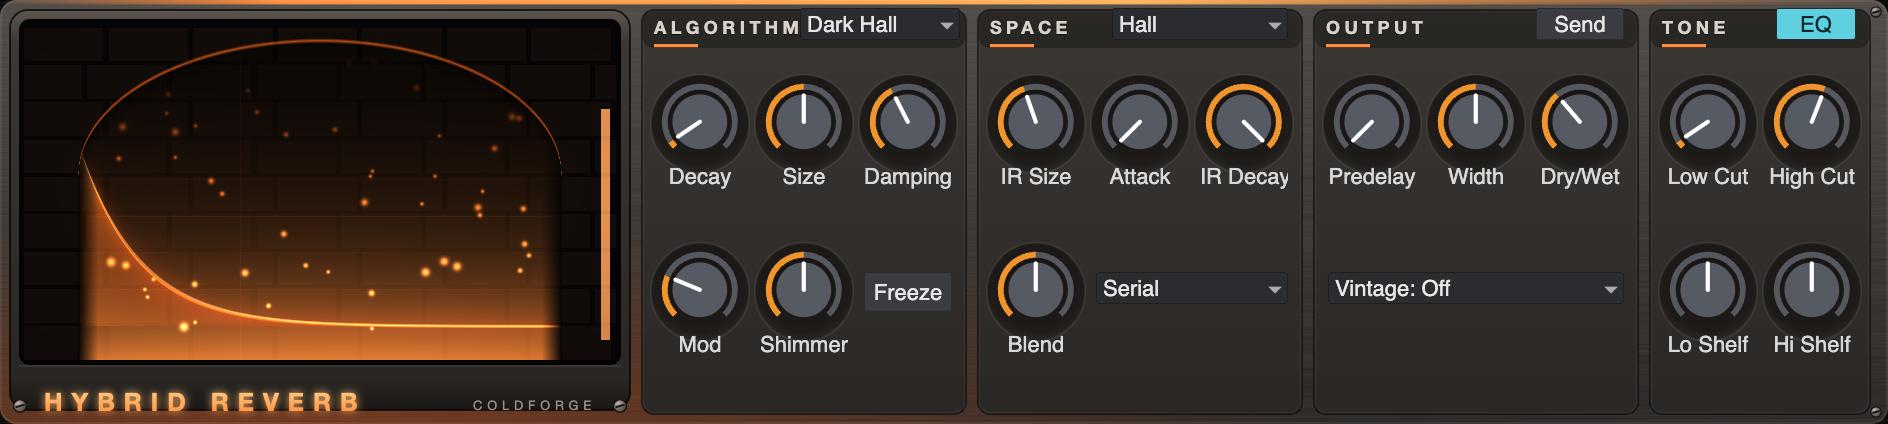
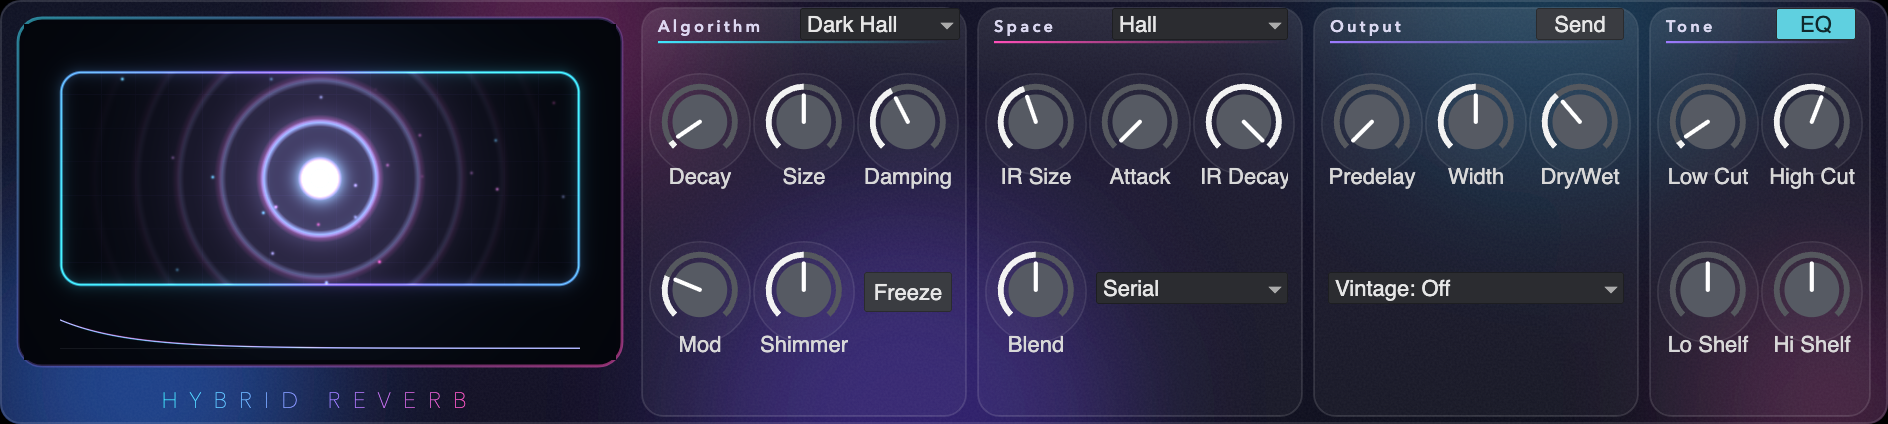
Hybrid Reverb: preview picture and README for the new design

diff --git a/devices/hybrid-reverb/README.md b/devices/hybrid-reverb/README.md
@@ -18,7 +18,7 @@ Status: early. It loads in Bitwig Studio 6.1.7 (macOS); the Space engine, routin
 | Tone | **EQ** on/off, **Low Cut**, **High Cut** (12 dB/oct), **Low Shelf** (200 Hz) and **High Shelf** (5 kHz) ±15 dB |
 | Output | **Predelay** up to 250 ms, **Width**, **Vintage** (Subtle to Extreme: rate, bit depth and bandwidth), **Dry/Wet**, **Send** (100 % wet, for a return track) |
 
-**The display** is a decay graph in a kiln mouth: time across, 60 dB up, with a grid every second and 12 dB. A filled line of fire shows the algorithm's decay and a cream line over an amber haze the space's, each as bright as its share of the blend; the arch widens with Size, and a bar at the right shows the wet level. Embers rise with the level and sway with Mod, Damping turns the glow from white-hot to deep red, Freeze turns it ice blue, and the Shimmer character adds sparks.
+**The display** shows sound spreading in a room: rings travel out from the source in the middle, cyan for the algorithm and magenta for the space, each fading over its own decay and as bright as its share of the blend. The room's walls follow Size and light up with the wet level; dust drifts with Mod, Freeze stops the rings and turns them to ice, and the Shimmer character adds stars. A thin graph along the bottom shows both decays.
 
 ## How the engines work
 
@@ -39,7 +39,7 @@ Built for Bitwig Studio 6.1.7. The DSP is stored as Nitro source, which Bitwig c
 |---|---|
 | `hybrid_reverb.nitro` | The DSP, in Bitwig's Nitro language. Buffer sizes are `@…@` tokens that the build fills in |
 | `furnace.sksl` | The display (an SkSL shader), fed by three display outputs of the DSP |
-| `make_panel.py` | Draws the panel art (`panel_art.svg`: brushed steel, section plates, knob wells, logo), renders it with headless Chrome to `panel.png` and wraps it in `panel.svg`, which the device shows under its controls. Reads the layout from the build script |
+| `make_panel.py` | Draws the panel art (`panel_art.svg`: dark glass with coloured light, glass cards, knob rings, logo), renders it with headless Chrome to `panel.png` and wraps it in `panel.svg`, which the device shows under its controls. Reads the layout from the build script |
 | `panel.svg`, `panel.png`, `panel_art.svg` | The panel, as built by `make_panel.py` |
 | `build_hybrid_reverb.py` | The device description: controls, layout and look. Writes `out/Hybrid Reverb.bwdevice` and a copy here |
 | `test/sim_hybrid_reverb.py` | Runs the Nitro text itself offline, sample by sample: decay times, predelay, Freeze, stability of every character and IR type, equal loudness of the IR types, IR Decay, routing and EQ (`SIM_OK`) |
